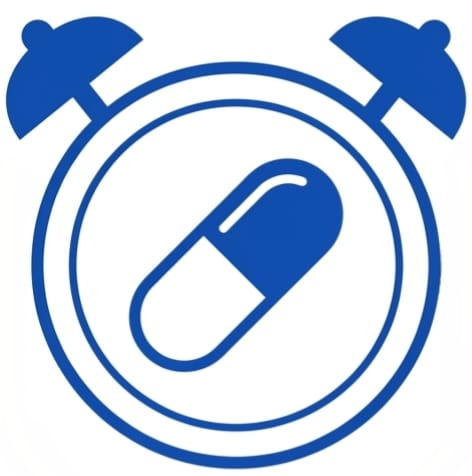
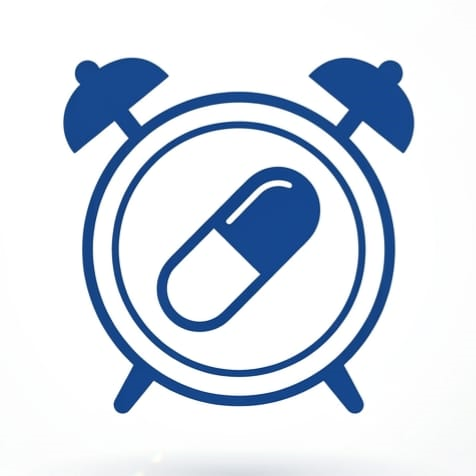
test78

diff --git a/index.html b/index.html
@@ -456,7 +456,7 @@
         gap: 8px; 
     } 
  
-    .icon-btn { 
+    .btn { 
         position: relative; 
  
         width: 30px; 
